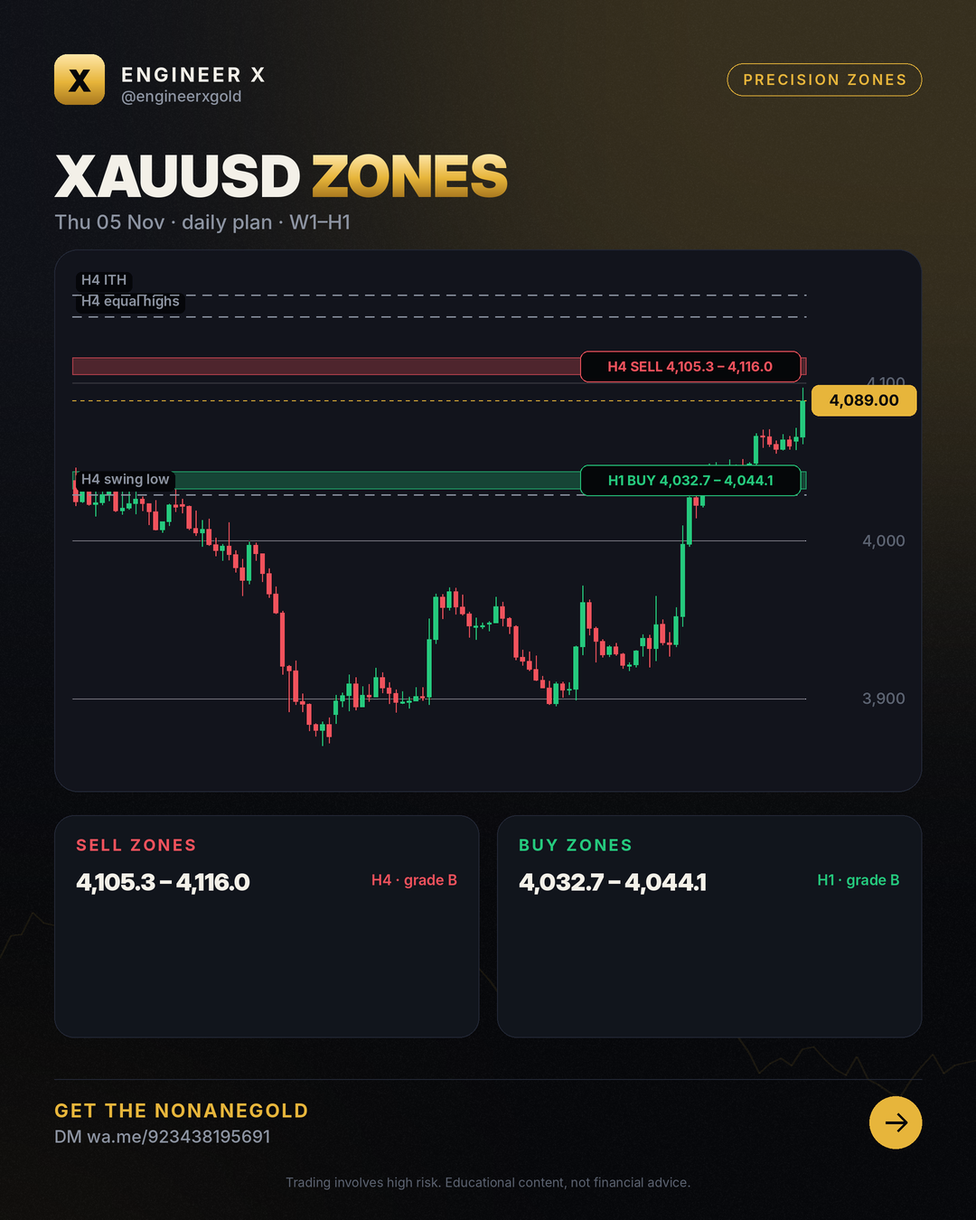
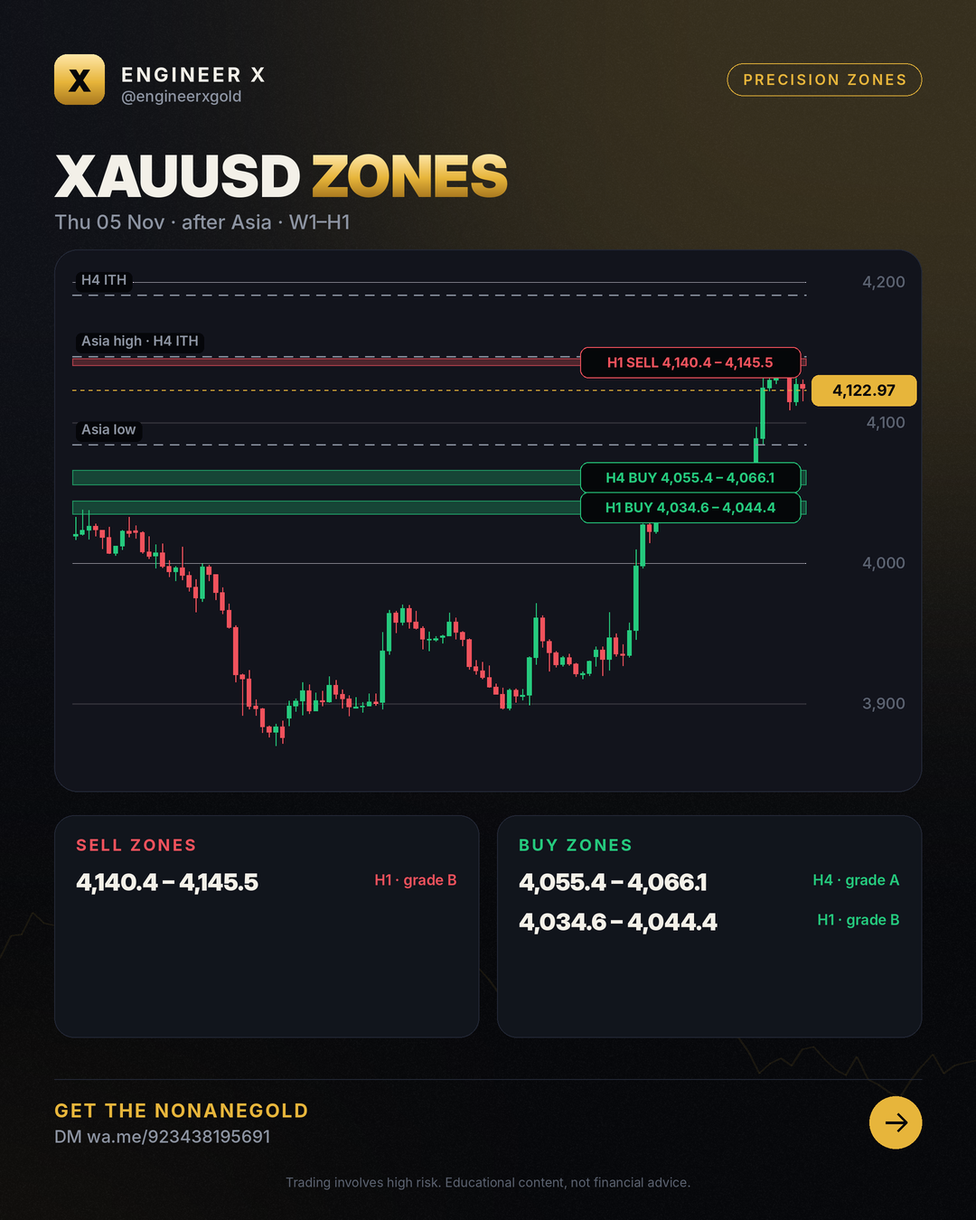
zones 2026-11-05 Thu 05 Nov · after Asia · W1–H1

diff --git a/zones/index.html b/zones/index.html
@@ -4,7 +4,7 @@
 <meta charset="utf-8">
 <meta name="viewport" content="width=device-width,initial-scale=1">
 <title>XAUUSD Zones Today – Buy &amp; Sell Zones (H4, H1) | Engineer X</title>
-<meta name="description" content="XAUUSD buy and sell zones for 2026-11-05: tested W1, D1, H4 and H1 zones with invalidation levels, updated after the Asian, London and New York sessions. Price 4,089.00.">
+<meta name="description" content="XAUUSD buy and sell zones for 2026-11-05: tested W1, D1, H4 and H1 zones with invalidation levels, updated after the Asian, London and New York sessions. Price 4,122.97.">
 <meta name="robots" content="index,follow,max-image-preview:large,max-snippet:-1,max-video-preview:-1">
 <meta name="author" content="Engr. M Ahmad Mehmood">
 <link rel="canonical" href="https://engineerxgold.github.io/zones/">
@@ -12,7 +12,7 @@
 <link rel="apple-touch-icon" href="../img/logo.png">
 <meta property="og:site_name" content="Engineer X">
 <meta property="og:title" content="XAUUSD Zones Today – Buy &amp; Sell Zones (H4, H1) | Engineer X">
-<meta property="og:description" content="XAUUSD buy and sell zones for 2026-11-05: tested W1, D1, H4 and H1 zones with invalidation levels, updated after the Asian, London and New York sessions. Price 4,089.00.">
+<meta property="og:description" content="XAUUSD buy and sell zones for 2026-11-05: tested W1, D1, H4 and H1 zones with invalidation levels, updated after the Asian, London and New York sessions. Price 4,122.97.">
 <meta property="og:type" content="website">
 <meta property="og:url" content="https://engineerxgold.github.io/zones/">
 <meta property="og:image" content="https://engineerxgold.github.io/zones/img/2026-11-05.png">
@@ -22,7 +22,7 @@
 <meta property="og:locale" content="en_US">
 <meta name="twitter:card" content="summary_large_image">
 <meta name="twitter:title" content="XAUUSD Zones Today – Buy &amp; Sell Zones (H4, H1) | Engineer X">
-<meta name="twitter:description" content="XAUUSD buy and sell zones for 2026-11-05: tested W1, D1, H4 and H1 zones with invalidation levels, updated after the Asian, London and New York sessions. Price 4,089.00.">
+<meta name="twitter:description" content="XAUUSD buy and sell zones for 2026-11-05: tested W1, D1, H4 and H1 zones with invalidation levels, updated after the Asian, London and New York sessions. Price 4,122.97.">
 <meta name="twitter:image" content="https://engineerxgold.github.io/zones/img/2026-11-05.png">
 <meta name="twitter:image:alt" content="XAUUSD Zones Today – Buy &amp; Sell Zones (H4, H1) | Engineer X">
 
@@ -101,7 +101,7 @@ footer .fl a{color:var(--muted);margin-right:16px}
 <div class="wrap">
 <nav><a class="logo" href="../"><b>X</b>Engineer X</a>
 <div class="links"><a href="../zones/">Daily Zones</a><a href="../blog/">Learn</a><a href="../ea/">Gold EA</a><a href="../about/">About</a><a class="cta" href="https://wa.me/923438195691">Get the EA</a></div></nav>
-<section class="hero"><span class="chip">Updated Thu 05 Nov · daily plan · W1–H1</span><h1>XAUUSD <span class="gold">precision zones</span></h1><p>XAUUSD buy and sell zones for 2026-11-05: tested W1, D1, H4 and H1 zones with invalidation levels, updated after the Asian, London and New York sessions. Price 4,089.00.</p></section><img src="img/2026-11-05.png" alt="Latest XAUUSD zone map" width="1080" height="1350"><section><h2>Current zones</h2><div style="overflow-x:auto"><table style="width:100%;border-collapse:collapse;font-size:15px"><tr><th align=left>Zone</th><th align=left>Price band</th><th>Grade</th><th align=left>Invalid</th><th align=left>Why</th></tr><tr><td>H4 sell</td><td><b>4,105.32 – 4,115.98</b></td><td>B</td><td>above 4,117.75</td><td>MSNR resistance levels (fresh): 4H GAP 4113.34, 15m GAP 4107.96. Wrong if price trades above 4117.75.; Confluence score 3: MSNR + ICT + SMC</td></tr><tr><td>H1 buy</td><td><b>4,032.72 – 4,044.07</b></td><td>B</td><td>below 4,030.95</td><td>MSNR support levels (fresh): 1H V 4037.59, 30m V 4035.36, 30m V 4041.43. Wrong if price trades below 4030.95.; Confluence score 4: MSNR + SMC + CRT + LIQ</td></tr></table></div></section><section><h2>Honest scorecard</h2><div class="grid"><div class="card"><div class="n">246</div><p>zones published (30 days)</p></div><div class="card"><div class="n">128</div><p>held (moved 1 hourly ATR away)</p></div><div class="card"><div class="n">28</div><p>broke (traded beyond the invalidation)</p></div><div class="card"><div class="n">82%</div><p>hold rate of decided zones</p></div></div></section><div class="ctabox"><h3>🤖 Trade the zones with the NonaneGold</h3><p>Free signals group access + setup help Message us and we will help you set it up.</p><div class="btns"><a class="btn gold" href="https://wa.me/923438195691">Get the EA on Telegram</a><a class="btn ghost" href="../ea/">About the EA</a></div></div><section><h2>Archive</h2><div class="grid posts"><a class="card" href="2026-11-05/"><span class="date">2026-11-05</span><h3>XAUUSD zones 2026-11-05</h3></a><a class="card" href="2026-11-04/"><span class="date">2026-11-04</span><h3>XAUUSD zones 2026-11-04</h3></a><a class="card" href="2026-11-03/"><span class="date">2026-11-03</span><h3>XAUUSD zones 2026-11-03</h3></a><a class="card" href="2026-11-02/"><span class="date">2026-11-02</span><h3>XAUUSD zones 2026-11-02</h3></a><a class="card" href="2026-10-30/"><span class="date">2026-10-30</span><h3>XAUUSD zones 2026-10-30</h3></a><a class="card" href="2026-10-29/"><span class="date">2026-10-29</span><h3>XAUUSD zones 2026-10-29</h3></a><a class="card" href="2026-10-28/"><span class="date">2026-10-28</span><h3>XAUUSD zones 2026-10-28</h3></a><a class="card" href="2026-10-27/"><span class="date">2026-10-27</span><h3>XAUUSD zones 2026-10-27</h3></a><a class="card" href="2026-10-26/"><span class="date">2026-10-26</span><h3>XAUUSD zones 2026-10-26</h3></a><a class="card" href="2026-10-23/"><span class="date">2026-10-23</span><h3>XAUUSD zones 2026-10-23</h3></a><a class="card" href="2026-10-22/"><span class="date">2026-10-22</span><h3>XAUUSD zones 2026-10-22</h3></a><a class="card" href="2026-10-21/"><span class="date">2026-10-21</span><h3>XAUUSD zones 2026-10-21</h3></a><a class="card" href="2026-10-20/"><span class="date">2026-10-20</span><h3>XAUUSD zones 2026-10-20</h3></a><a class="card" href="2026-10-19/"><span class="date">2026-10-19</span><h3>XAUUSD zones 2026-10-19</h3></a><a class="card" href="2026-10-16/"><span class="date">2026-10-16</span><h3>XAUUSD zones 2026-10-16</h3></a><a class="card" href="2026-10-15/"><span class="date">2026-10-15</span><h3>XAUUSD zones 2026-10-15</h3></a><a class="card" href="2026-10-14/"><span class="date">2026-10-14</span><h3>XAUUSD zones 2026-10-14</h3></a><a class="card" href="2026-10-13/"><span class="date">2026-10-13</span><h3>XAUUSD zones 2026-10-13</h3></a></div></section>
+<section class="hero"><span class="chip">Updated Thu 05 Nov · after Asia · W1–H1</span><h1>XAUUSD <span class="gold">precision zones</span></h1><p>XAUUSD buy and sell zones for 2026-11-05: tested W1, D1, H4 and H1 zones with invalidation levels, updated after the Asian, London and New York sessions. Price 4,122.97.</p></section><img src="img/2026-11-05.png" alt="Latest XAUUSD zone map" width="1080" height="1350"><section><h2>Current zones</h2><div style="overflow-x:auto"><table style="width:100%;border-collapse:collapse;font-size:15px"><tr><th align=left>Zone</th><th align=left>Price band</th><th>Grade</th><th align=left>Invalid</th><th align=left>Why</th></tr><tr><td>H1 sell</td><td><b>4,140.38 – 4,145.46</b></td><td>B</td><td>above 4,147.44</td><td>H1 supply: 1 small base candle (Wed 04 Nov 23:00 NY), then a strong move down (1.4x ATR). Untouched since. Wrong if price trades above 4147.44.; MSNR levels ins</td></tr><tr><td>H1 buy</td><td><b>4,034.62 – 4,044.40</b></td><td>B</td><td>below 4,032.65</td><td>MSNR support levels (fresh): 1H V 4037.59, 30m V 4041.43. Wrong if price trades below 4032.65.; Confluence score 4: MSNR + SMC + CRT + LIQ</td></tr><tr><td>H4 buy</td><td><b>4,055.41 – 4,066.11</b></td><td>A</td><td>below 4,053.43</td><td>H4 demand: 1 small base candle (Wed 04 Nov 13:00 NY), then a strong move up (1.6x ATR). Untouched since. Wrong if price trades below 4053.43.; MSNR levels insid</td></tr></table></div></section><section><h2>Honest scorecard</h2><div class="grid"><div class="card"><div class="n">248</div><p>zones published (30 days)</p></div><div class="card"><div class="n">135</div><p>held (moved 1 hourly ATR away)</p></div><div class="card"><div class="n">29</div><p>broke (traded beyond the invalidation)</p></div><div class="card"><div class="n">82%</div><p>hold rate of decided zones</p></div></div></section><div class="ctabox"><h3>🤖 Trade the zones with the NonaneGold</h3><p>Free signals group access + setup help Message us and we will help you set it up.</p><div class="btns"><a class="btn gold" href="https://wa.me/923438195691">Get the EA on Telegram</a><a class="btn ghost" href="../ea/">About the EA</a></div></div><section><h2>Archive</h2><div class="grid posts"><a class="card" href="2026-11-05/"><span class="date">2026-11-05</span><h3>XAUUSD zones 2026-11-05</h3></a><a class="card" href="2026-11-04/"><span class="date">2026-11-04</span><h3>XAUUSD zones 2026-11-04</h3></a><a class="card" href="2026-11-03/"><span class="date">2026-11-03</span><h3>XAUUSD zones 2026-11-03</h3></a><a class="card" href="2026-11-02/"><span class="date">2026-11-02</span><h3>XAUUSD zones 2026-11-02</h3></a><a class="card" href="2026-10-30/"><span class="date">2026-10-30</span><h3>XAUUSD zones 2026-10-30</h3></a><a class="card" href="2026-10-29/"><span class="date">2026-10-29</span><h3>XAUUSD zones 2026-10-29</h3></a><a class="card" href="2026-10-28/"><span class="date">2026-10-28</span><h3>XAUUSD zones 2026-10-28</h3></a><a class="card" href="2026-10-27/"><span class="date">2026-10-27</span><h3>XAUUSD zones 2026-10-27</h3></a><a class="card" href="2026-10-26/"><span class="date">2026-10-26</span><h3>XAUUSD zones 2026-10-26</h3></a><a class="card" href="2026-10-23/"><span class="date">2026-10-23</span><h3>XAUUSD zones 2026-10-23</h3></a><a class="card" href="2026-10-22/"><span class="date">2026-10-22</span><h3>XAUUSD zones 2026-10-22</h3></a><a class="card" href="2026-10-21/"><span class="date">2026-10-21</span><h3>XAUUSD zones 2026-10-21</h3></a><a class="card" href="2026-10-20/"><span class="date">2026-10-20</span><h3>XAUUSD zones 2026-10-20</h3></a><a class="card" href="2026-10-19/"><span class="date">2026-10-19</span><h3>XAUUSD zones 2026-10-19</h3></a><a class="card" href="2026-10-16/"><span class="date">2026-10-16</span><h3>XAUUSD zones 2026-10-16</h3></a><a class="card" href="2026-10-15/"><span class="date">2026-10-15</span><h3>XAUUSD zones 2026-10-15</h3></a><a class="card" href="2026-10-14/"><span class="date">2026-10-14</span><h3>XAUUSD zones 2026-10-14</h3></a><a class="card" href="2026-10-13/"><span class="date">2026-10-13</span><h3>XAUUSD zones 2026-10-13</h3></a></div></section>
 <footer>
 <div class="warn"><b>Risk warning:</b> Trading gold, forex and CFDs carries a high risk of losing money and is not suitable for everyone. Past results do not guarantee future results. Everything on this site is educational and not financial advice. We are an introducing partner of our broker and may earn a commission on accounts opened through our link.</div>
 <p class="fl" style="margin-top:18px"><a href="../about/">About &amp; methodology</a><a href="../privacy.html">Privacy</a><a href="../terms.html">Terms &amp; risk disclosure</a><a href="../feed.xml">RSS</a><a href="https://t.me/engineerxgold">Telegram</a></p>

diff --git a/zones/2026-11-05/index.html b/zones/2026-11-05/index.html
@@ -4,7 +4,7 @@
 <meta charset="utf-8">
 <meta name="viewport" content="width=device-width,initial-scale=1">
 <title>Gold Price Today – 05 Nov 2026 (W1–H1)</title>
-<meta name="description" content="XAUUSD buy and sell zones for 2026-11-05: tested W1, D1, H4 and H1 zones with invalidation levels, updated after the Asian, London and New York sessions. Price 4,089.00.">
+<meta name="description" content="XAUUSD buy and sell zones for 2026-11-05: tested W1, D1, H4 and H1 zones with invalidation levels, updated after the Asian, London and New York sessions. Price 4,122.97.">
 <meta name="robots" content="index,follow,max-image-preview:large,max-snippet:-1,max-video-preview:-1">
 <meta name="author" content="Engr. M Ahmad Mehmood">
 <link rel="canonical" href="https://engineerxgold.github.io/zones/2026-11-05/">
@@ -12,7 +12,7 @@
 <link rel="apple-touch-icon" href="../../img/logo.png">
 <meta property="og:site_name" content="Engineer X">
 <meta property="og:title" content="Gold Price Today – 05 Nov 2026 (W1–H1)">
-<meta property="og:description" content="XAUUSD buy and sell zones for 2026-11-05: tested W1, D1, H4 and H1 zones with invalidation levels, updated after the Asian, London and New York sessions. Price 4,089.00.">
+<meta property="og:description" content="XAUUSD buy and sell zones for 2026-11-05: tested W1, D1, H4 and H1 zones with invalidation levels, updated after the Asian, London and New York sessions. Price 4,122.97.">
 <meta property="og:type" content="article">
 <meta property="og:url" content="https://engineerxgold.github.io/zones/2026-11-05/">
 <meta property="og:image" content="https://engineerxgold.github.io/zones/img/2026-11-05.png">
@@ -22,7 +22,7 @@
 <meta property="og:locale" content="en_US">
 <meta name="twitter:card" content="summary_large_image">
 <meta name="twitter:title" content="Gold Price Today – 05 Nov 2026 (W1–H1)">
-<meta name="twitter:description" content="XAUUSD buy and sell zones for 2026-11-05: tested W1, D1, H4 and H1 zones with invalidation levels, updated after the Asian, London and New York sessions. Price 4,089.00.">
+<meta name="twitter:description" content="XAUUSD buy and sell zones for 2026-11-05: tested W1, D1, H4 and H1 zones with invalidation levels, updated after the Asian, London and New York sessions. Price 4,122.97.">
 <meta name="twitter:image" content="https://engineerxgold.github.io/zones/img/2026-11-05.png">
 <meta name="twitter:image:alt" content="Gold Price Today – 05 Nov 2026 (W1–H1)">
 
@@ -32,7 +32,7 @@
 <link rel="preconnect" href="https://fonts.googleapis.com">
 <link rel="preconnect" href="https://fonts.gstatic.com" crossorigin>
 <link href="https://fonts.googleapis.com/css2?family=Inter:wght@400;500;600;800;900&display=swap" rel="stylesheet">
-<script type="application/ld+json">{"@context": "https://schema.org", "@type": "Organization", "@id": "https://engineerxgold.github.io/#organization", "name": "Engineer X", "url": "https://engineerxgold.github.io/", "logo": {"@type": "ImageObject", "url": "https://engineerxgold.github.io/img/logo.png", "width": 512, "height": 512}, "sameAs": ["https://t.me/engineerxgold"]}</script><script type="application/ld+json">{"@context": "https://schema.org", "@type": "Article", "headline": "Gold Price Today – 05 Nov 2026 (W1–H1)", "datePublished": "2026-11-05T08:00:00+05:00", "dateModified": "2026-11-05T06:04:23+05:00", "author": {"@type": "Person", "@id": "https://engineerxgold.github.io/about/#author", "name": "Engr. M Ahmad Mehmood", "url": "https://engineerxgold.github.io/about/", "jobTitle": "MQL5 Expert Advisor developer and gold market analyst", "worksFor": {"@id": "https://engineerxgold.github.io/#organization"}}, "publisher": {"@id": "https://engineerxgold.github.io/#organization"}, "image": "https://engineerxgold.github.io/zones/img/2026-11-05.png", "mainEntityOfPage": "https://engineerxgold.github.io/zones/2026-11-05/"}</script>
+<script type="application/ld+json">{"@context": "https://schema.org", "@type": "Organization", "@id": "https://engineerxgold.github.io/#organization", "name": "Engineer X", "url": "https://engineerxgold.github.io/", "logo": {"@type": "ImageObject", "url": "https://engineerxgold.github.io/img/logo.png", "width": 512, "height": 512}, "sameAs": ["https://t.me/engineerxgold"]}</script><script type="application/ld+json">{"@context": "https://schema.org", "@type": "Article", "headline": "Gold Price Today – 05 Nov 2026 (W1–H1)", "datePublished": "2026-11-05T08:00:00+05:00", "dateModified": "2026-11-05T13:07:06+05:00", "author": {"@type": "Person", "@id": "https://engineerxgold.github.io/about/#author", "name": "Engr. M Ahmad Mehmood", "url": "https://engineerxgold.github.io/about/", "jobTitle": "MQL5 Expert Advisor developer and gold market analyst", "worksFor": {"@id": "https://engineerxgold.github.io/#organization"}}, "publisher": {"@id": "https://engineerxgold.github.io/#organization"}, "image": "https://engineerxgold.github.io/zones/img/2026-11-05.png", "mainEntityOfPage": "https://engineerxgold.github.io/zones/2026-11-05/"}</script>
 
 <style>
 :root{--gold:#E7B53B;--gold-hi:#FFE7A8;--bg:#07080B;--bg2:#0E1016;--panel:#12151D;--line:#232836;--green:#25C97D;--red:#F0525C;--text:#F3F0E8;--muted:#8C93A1}
@@ -101,7 +101,7 @@ footer .fl a{color:var(--muted);margin-right:16px}
 <div class="wrap">
 <nav><a class="logo" href="../../"><b>X</b>Engineer X</a>
 <div class="links"><a href="../../zones/">Daily Zones</a><a href="../../blog/">Learn</a><a href="../../ea/">Gold EA</a><a href="../../about/">About</a><a class="cta" href="https://wa.me/923438195691">Get the EA</a></div></nav>
-<article><p class="crumbs"><a href="../../">Home</a> › <a href="../">Zones</a> › 2026-11-05</p><h1>Gold Price Today – 05 Nov 2026 (W1–H1)</h1><p class="byline">Thu 05 Nov · daily plan · W1–H1 · by Engr. M Ahmad Mehmood</p><img src="../img/2026-11-05.png" alt="XAUUSD zone map 2026-11-05" width="1080" height="1350" loading="eager"><h2>Zones</h2><div style="overflow-x:auto"><table style="width:100%;border-collapse:collapse;font-size:15px"><tr><th align=left>Zone</th><th align=left>Price band</th><th>Grade</th><th align=left>Invalid</th><th align=left>Why</th></tr><tr><td>H4 sell</td><td><b>4,105.32 – 4,115.98</b></td><td>B</td><td>above 4,117.75</td><td>MSNR resistance levels (fresh): 4H GAP 4113.34, 15m GAP 4107.96. Wrong if price trades above 4117.75.; Confluence score 3: MSNR + ICT + SMC</td></tr><tr><td>H1 buy</td><td><b>4,032.72 – 4,044.07</b></td><td>B</td><td>below 4,030.95</td><td>MSNR support levels (fresh): 1H V 4037.59, 30m V 4035.36, 30m V 4041.43. Wrong if price trades below 4030.95.; Confluence score 4: MSNR + SMC + CRT + LIQ</td></tr></table></div><h2>How to read this map</h2><p>Bands are where price is expected to react; they are not entries. Trading beyond the invalidation price ends the zone; each zone counts once (first touch). Highs and lows listed as liquidity are targets: on 10 years of gold price ran through them more often than through random levels.</p><div class="ctabox"><h3>🤖 Trade the zones with the NonaneGold</h3><p>Free signals group access + setup help Message us and we will help you set it up.</p><div class="btns"><a class="btn gold" href="https://wa.me/923438195691">Get the EA on Telegram</a><a class="btn ghost" href="../../ea/">About the EA</a></div></div></article>
+<article><p class="crumbs"><a href="../../">Home</a> › <a href="../">Zones</a> › 2026-11-05</p><h1>Gold Price Today – 05 Nov 2026 (W1–H1)</h1><p class="byline">Thu 05 Nov · after Asia · W1–H1 · by Engr. M Ahmad Mehmood</p><img src="../img/2026-11-05.png" alt="XAUUSD zone map 2026-11-05" width="1080" height="1350" loading="eager"><h2>Zones</h2><div style="overflow-x:auto"><table style="width:100%;border-collapse:collapse;font-size:15px"><tr><th align=left>Zone</th><th align=left>Price band</th><th>Grade</th><th align=left>Invalid</th><th align=left>Why</th></tr><tr><td>H1 sell</td><td><b>4,140.38 – 4,145.46</b></td><td>B</td><td>above 4,147.44</td><td>H1 supply: 1 small base candle (Wed 04 Nov 23:00 NY), then a strong move down (1.4x ATR). Untouched since. Wrong if price trades above 4147.44.; MSNR levels ins</td></tr><tr><td>H1 buy</td><td><b>4,034.62 – 4,044.40</b></td><td>B</td><td>below 4,032.65</td><td>MSNR support levels (fresh): 1H V 4037.59, 30m V 4041.43. Wrong if price trades below 4032.65.; Confluence score 4: MSNR + SMC + CRT + LIQ</td></tr><tr><td>H4 buy</td><td><b>4,055.41 – 4,066.11</b></td><td>A</td><td>below 4,053.43</td><td>H4 demand: 1 small base candle (Wed 04 Nov 13:00 NY), then a strong move up (1.6x ATR). Untouched since. Wrong if price trades below 4053.43.; MSNR levels insid</td></tr></table></div><h2>How to read this map</h2><p>Bands are where price is expected to react; they are not entries. Trading beyond the invalidation price ends the zone; each zone counts once (first touch). Highs and lows listed as liquidity are targets: on 10 years of gold price ran through them more often than through random levels.</p><div class="ctabox"><h3>🤖 Trade the zones with the NonaneGold</h3><p>Free signals group access + setup help Message us and we will help you set it up.</p><div class="btns"><a class="btn gold" href="https://wa.me/923438195691">Get the EA on Telegram</a><a class="btn ghost" href="../../ea/">About the EA</a></div></div></article>
 <footer>
 <div class="warn"><b>Risk warning:</b> Trading gold, forex and CFDs carries a high risk of losing money and is not suitable for everyone. Past results do not guarantee future results. Everything on this site is educational and not financial advice. We are an introducing partner of our broker and may earn a commission on accounts opened through our link.</div>
 <p class="fl" style="margin-top:18px"><a href="../../about/">About &amp; methodology</a><a href="../../privacy.html">Privacy</a><a href="../../terms.html">Terms &amp; risk disclosure</a><a href="../../feed.xml">RSS</a><a href="https://t.me/engineerxgold">Telegram</a></p>

diff --git a/index.html b/index.html
@@ -101,7 +101,7 @@ footer .fl a{color:var(--muted);margin-right:16px}
 <div class="wrap">
 <nav><a class="logo" href="./"><b>X</b>Engineer X</a>
 <div class="links"><a href="./zones/">Daily Zones</a><a href="./blog/">Learn</a><a href="./ea/">Gold EA</a><a href="./about/">About</a><a class="cta" href="https://wa.me/923438195691">Get the EA</a></div></nav>
-<section class="hero"><span class="chip">XAUUSD · W1–H1 · every session</span><h1>Gold <span class="gold">precision zones</span>, updated after every session</h1><p>Tested buy and sell zones with clear invalidation, a scorecard of every result, and the NonaneGold for traders who want it automated.</p><div class="btns"><a class="btn gold" href="zones/">See today's zones</a><a class="btn ghost" href="https://wa.me/923438195691">Get the EA</a></div></section><section><h2>Latest map Thu 05 Nov · daily plan · W1–H1</h2><img src="zones/img/2026-11-05.png" alt="Latest XAUUSD zones" width="1080" height="1350"></section><div class="ctabox"><h3>🤖 Trade the zones with the NonaneGold</h3><p>Free signals group access + setup help Message us and we will help you set it up.</p><div class="btns"><a class="btn gold" href="https://wa.me/923438195691">Get the EA on Telegram</a><a class="btn ghost" href="ea/">About the EA</a></div></div><section><h2>Learn</h2><div class="grid posts"><a class="card" href="blog/gold-trading-price-h4-uptrend-zones-liquidity-maps/"><span class="date">2026-11-05</span><h3>Gold Trading Price: H4 Uptrend Zones &amp; Liquidity Maps</h3></a><a class="card" href="blog/gold-supply-and-demand-zones-h4-h1-map-analysis/"><span class="date">2026-11-04</span><h3>Gold Supply and Demand Zones: H4 &amp; H1 Map Analysis</h3></a><a class="card" href="blog/gold-support-resistance-today-s-map-key-zones/"><span class="date">2026-11-03</span><h3>Gold Support Resistance: Today&#x27;s Map &amp; Key Zones</h3></a><a class="card" href="blog/gold-supply-and-demand-zones-h4-setup-levels/"><span class="date">2026-11-01</span><h3>Gold Supply and Demand Zones: H4 Setup &amp; Levels</h3></a><a class="card" href="blog/gold-supply-and-demand-zones-h4-h1-trading-map-2026-10-31/"><span class="date">2026-10-31</span><h3>Gold Supply and Demand Zones: H4 &amp; H1 Trading Map</h3></a><a class="card" href="blog/gold-price-today-live-technical-levels-zone-map/"><span class="date">2026-10-30</span><h3>Gold Price Today: Live Technical Levels &amp; Zone Map</h3></a></div></section><section><h2>FAQ</h2><details><summary>What is a precision zone?</summary><p>A point of interest from a trading book (OTE 0.705, balanced price range, weekly close level, daily order block) that held better than random levels on 10 years of gold. Each zone has an invalidation price.</p></details><details><summary>How often are the zones updated?</summary><p>A daily plan at the Asian open, then after the Asian, London and New York sessions.</p></details><details><summary>Are these trade signals?</summary><p>No. Zones are areas to watch. Wait for your own confirmation and manage risk.</p></details><details><summary>How do I get the Gold EA?</summary><p>Message us on Telegram or WhatsApp; we answer and help with the setup.</p></details></section>
+<section class="hero"><span class="chip">XAUUSD · W1–H1 · every session</span><h1>Gold <span class="gold">precision zones</span>, updated after every session</h1><p>Tested buy and sell zones with clear invalidation, a scorecard of every result, and the NonaneGold for traders who want it automated.</p><div class="btns"><a class="btn gold" href="zones/">See today's zones</a><a class="btn ghost" href="https://wa.me/923438195691">Get the EA</a></div></section><section><h2>Latest map Thu 05 Nov · after Asia · W1–H1</h2><img src="zones/img/2026-11-05.png" alt="Latest XAUUSD zones" width="1080" height="1350"></section><div class="ctabox"><h3>🤖 Trade the zones with the NonaneGold</h3><p>Free signals group access + setup help Message us and we will help you set it up.</p><div class="btns"><a class="btn gold" href="https://wa.me/923438195691">Get the EA on Telegram</a><a class="btn ghost" href="ea/">About the EA</a></div></div><section><h2>Learn</h2><div class="grid posts"><a class="card" href="blog/gold-trading-price-h4-uptrend-zones-liquidity-maps/"><span class="date">2026-11-05</span><h3>Gold Trading Price: H4 Uptrend Zones &amp; Liquidity Maps</h3></a><a class="card" href="blog/gold-supply-and-demand-zones-h4-h1-map-analysis/"><span class="date">2026-11-04</span><h3>Gold Supply and Demand Zones: H4 &amp; H1 Map Analysis</h3></a><a class="card" href="blog/gold-support-resistance-today-s-map-key-zones/"><span class="date">2026-11-03</span><h3>Gold Support Resistance: Today&#x27;s Map &amp; Key Zones</h3></a><a class="card" href="blog/gold-supply-and-demand-zones-h4-setup-levels/"><span class="date">2026-11-01</span><h3>Gold Supply and Demand Zones: H4 Setup &amp; Levels</h3></a><a class="card" href="blog/gold-supply-and-demand-zones-h4-h1-trading-map-2026-10-31/"><span class="date">2026-10-31</span><h3>Gold Supply and Demand Zones: H4 &amp; H1 Trading Map</h3></a><a class="card" href="blog/gold-price-today-live-technical-levels-zone-map/"><span class="date">2026-10-30</span><h3>Gold Price Today: Live Technical Levels &amp; Zone Map</h3></a></div></section><section><h2>FAQ</h2><details><summary>What is a precision zone?</summary><p>A point of interest from a trading book (OTE 0.705, balanced price range, weekly close level, daily order block) that held better than random levels on 10 years of gold. Each zone has an invalidation price.</p></details><details><summary>How often are the zones updated?</summary><p>A daily plan at the Asian open, then after the Asian, London and New York sessions.</p></details><details><summary>Are these trade signals?</summary><p>No. Zones are areas to watch. Wait for your own confirmation and manage risk.</p></details><details><summary>How do I get the Gold EA?</summary><p>Message us on Telegram or WhatsApp; we answer and help with the setup.</p></details></section>
 <footer>
 <div class="warn"><b>Risk warning:</b> Trading gold, forex and CFDs carries a high risk of losing money and is not suitable for everyone. Past results do not guarantee future results. Everything on this site is educational and not financial advice. We are an introducing partner of our broker and may earn a commission on accounts opened through our link.</div>
 <p class="fl" style="margin-top:18px"><a href="./about/">About &amp; methodology</a><a href="./privacy.html">Privacy</a><a href="./terms.html">Terms &amp; risk disclosure</a><a href="./feed.xml">RSS</a><a href="https://t.me/engineerxgold">Telegram</a></p>
